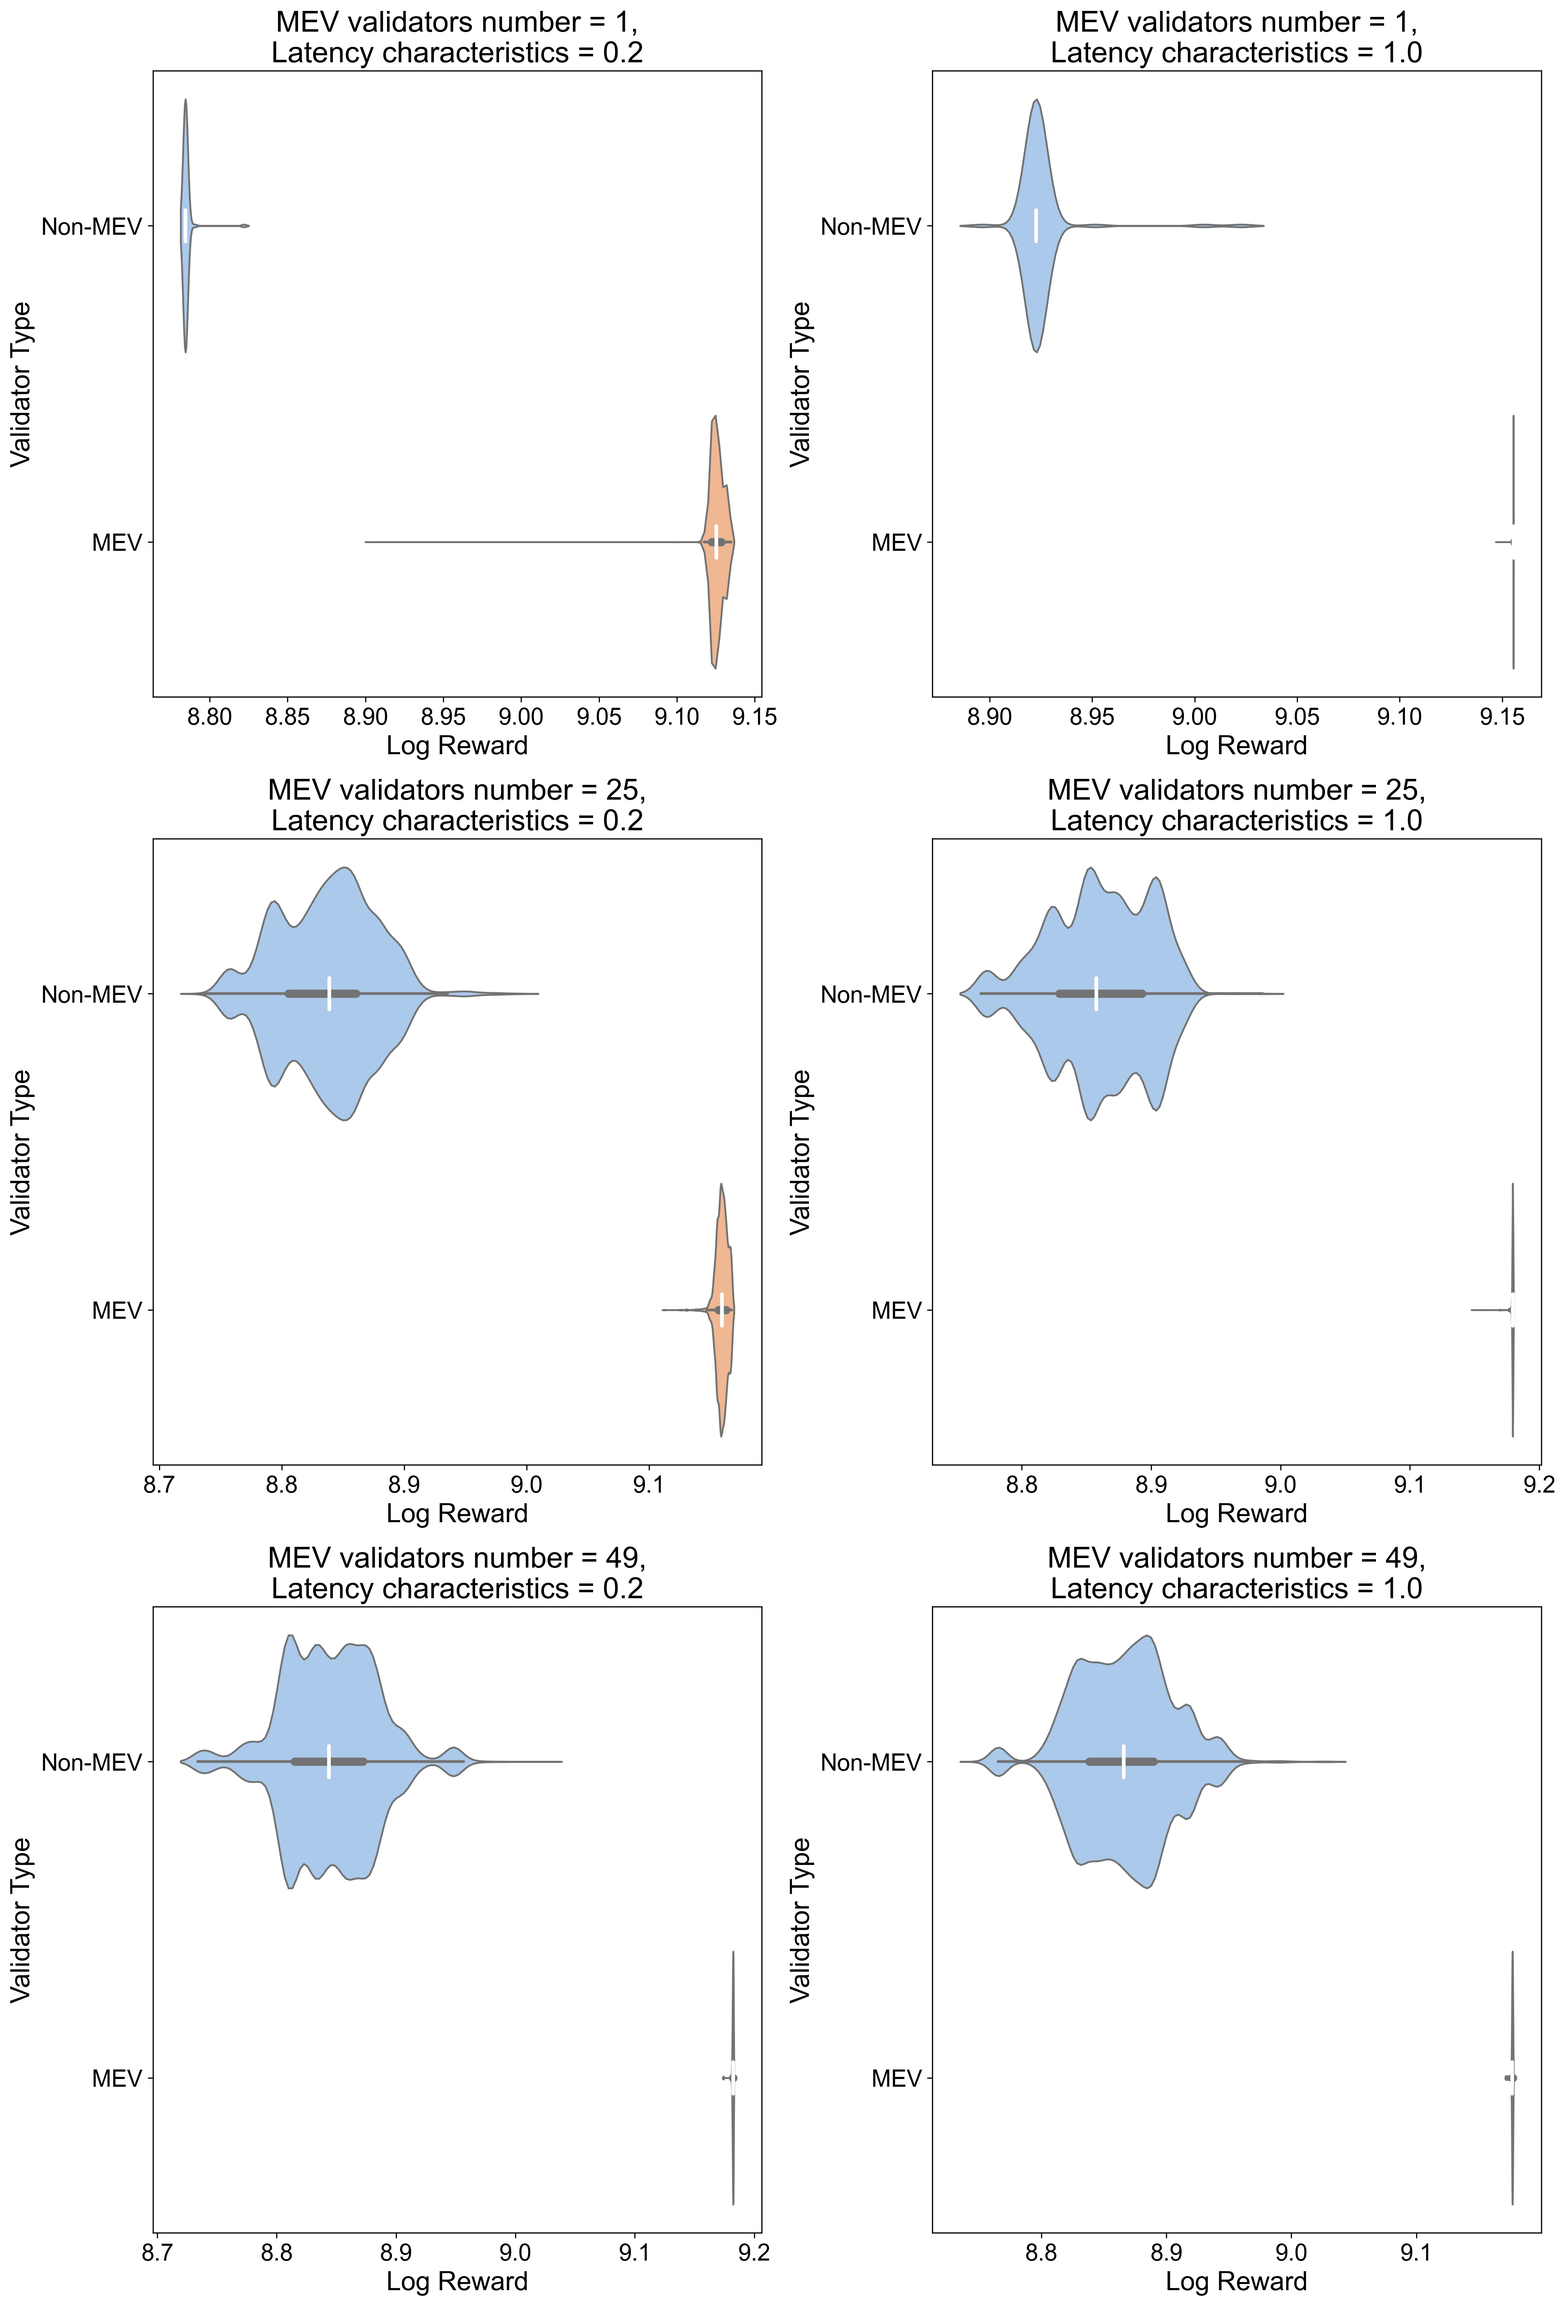
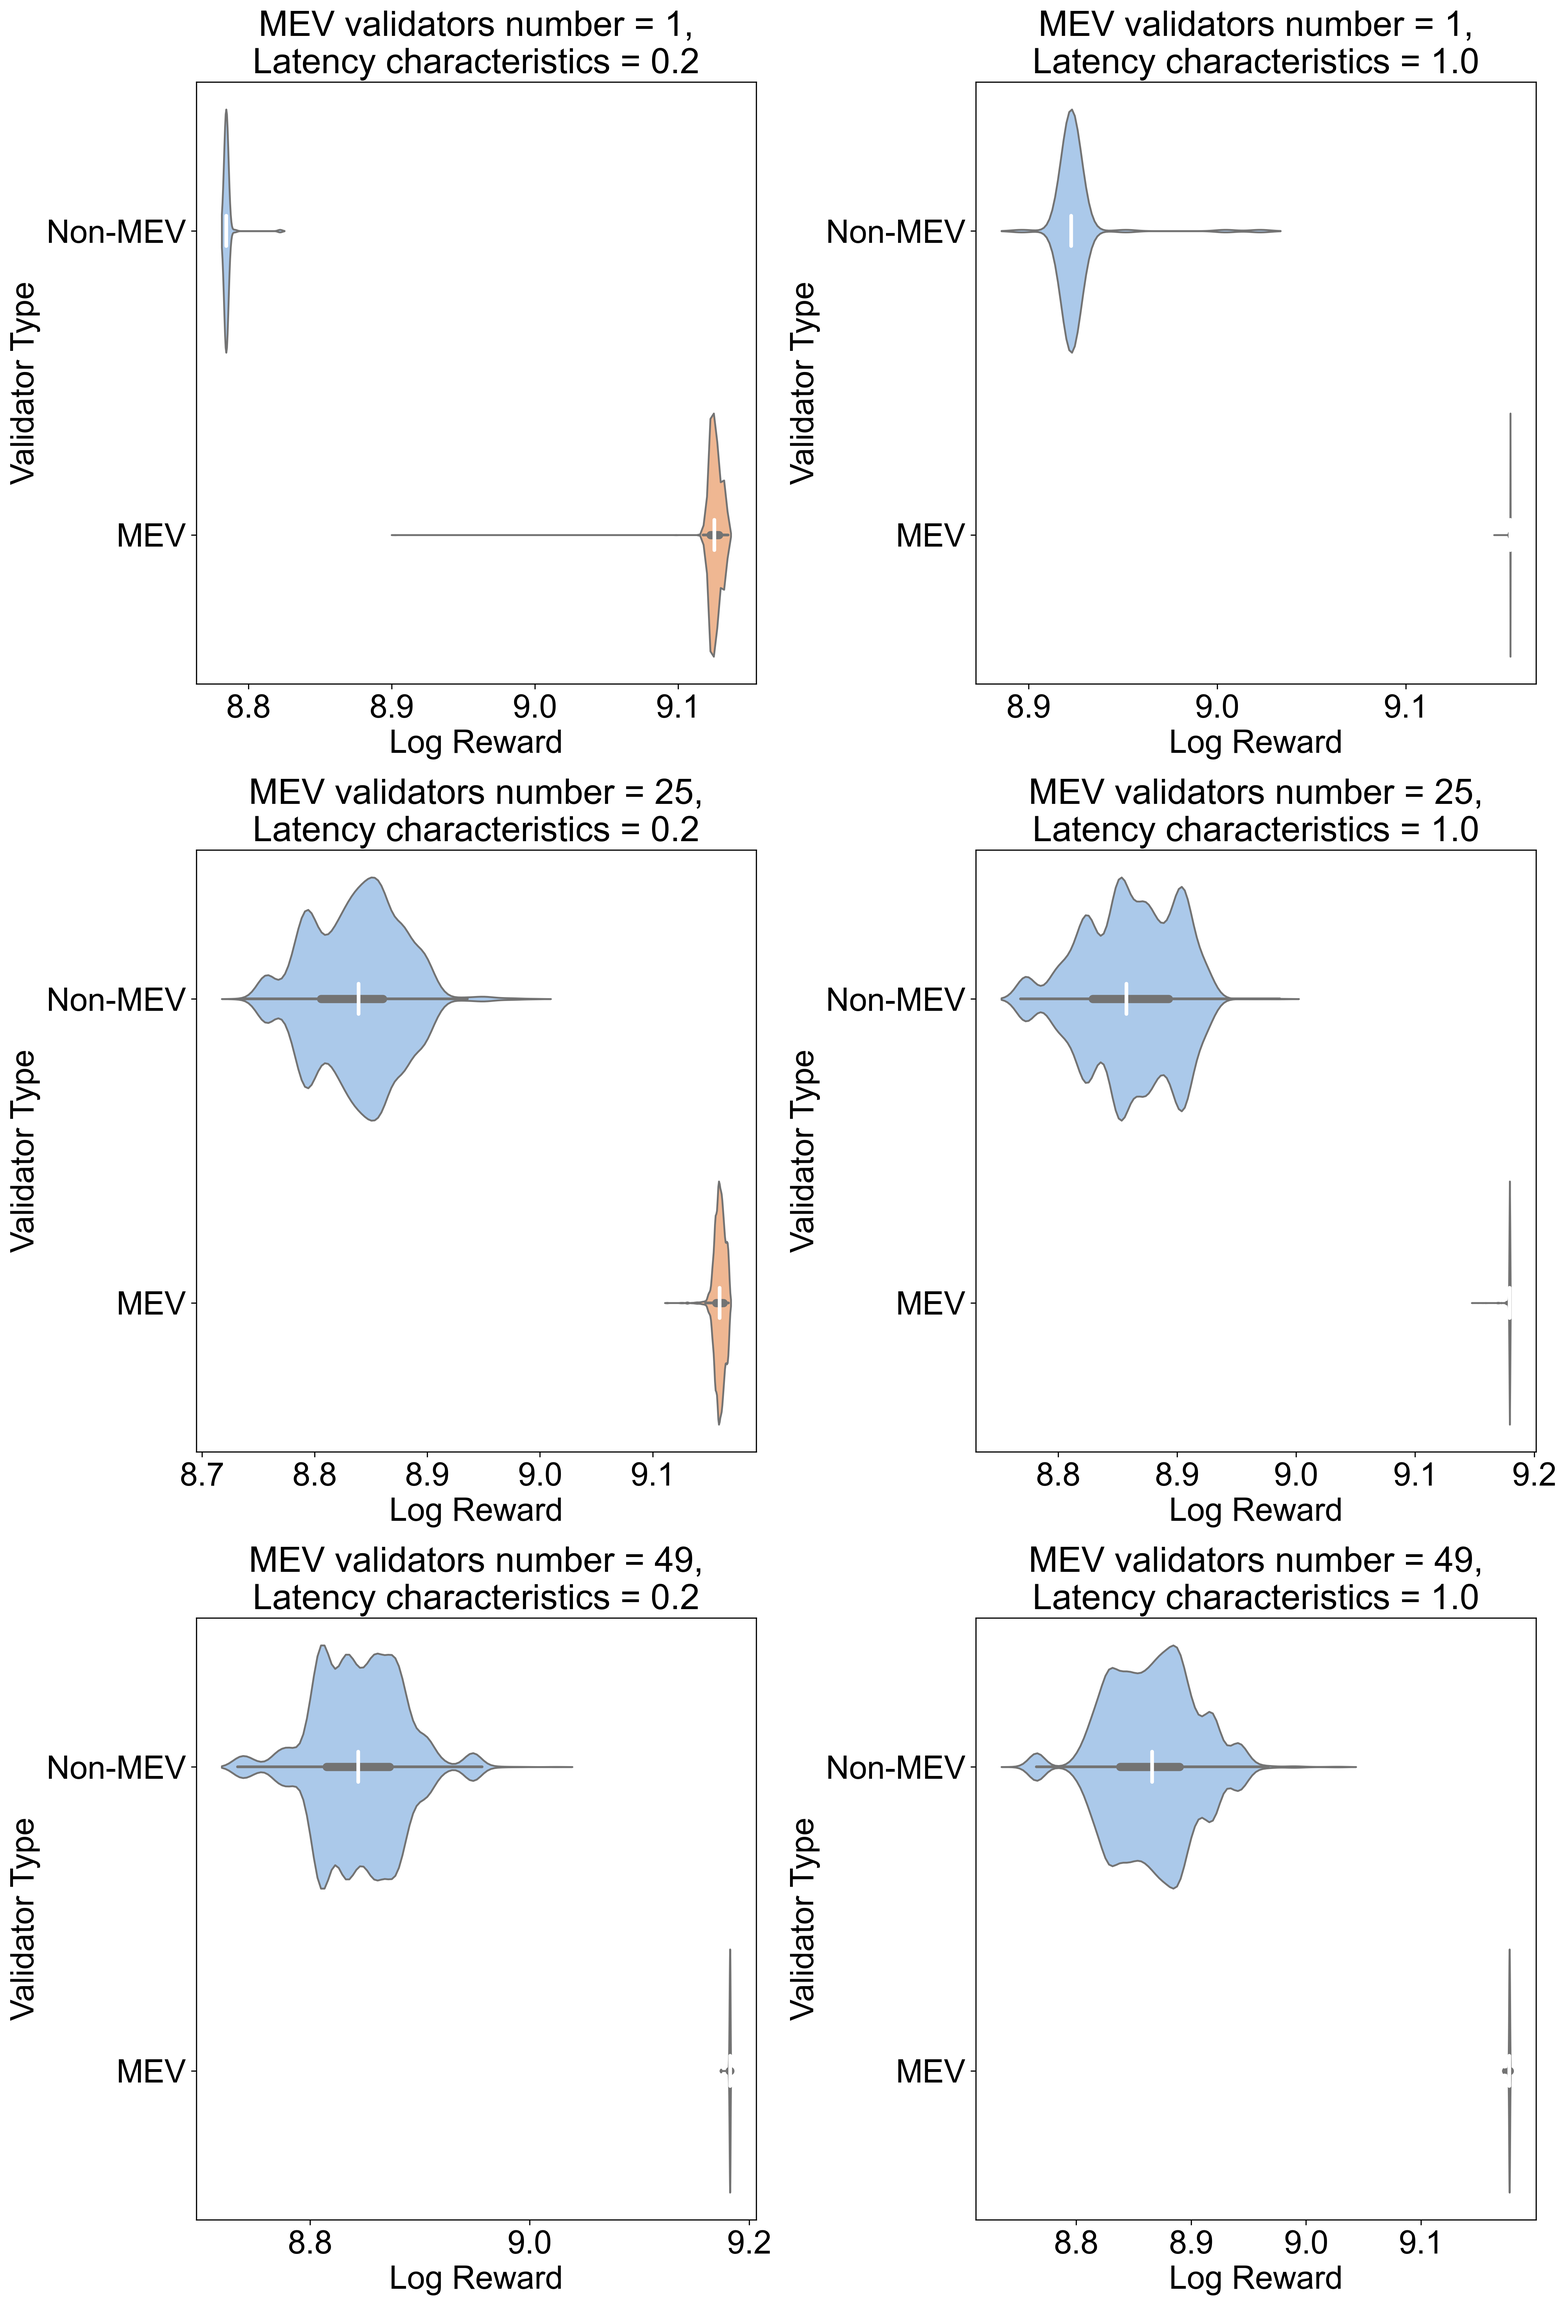
font

diff --git a/plots/box_plot_pos.py b/plots/box_plot_pos.py
@@ -38,10 +38,10 @@ def plot_reward_distribution(ax, data, mev_validators, characteristic):
         ax.plot([median, median], [i - 0.05, i + 0.05], color='white', linewidth=2.5)
     
     title = f'MEV validators number = {mev_validators},\nLatency characteristics = {characteristic}'
-    ax.set_title(title, fontsize=20)
-    ax.set_ylabel('Validator Type', fontsize=18)
-    ax.set_xlabel('Log Reward', fontsize=18)
-    ax.tick_params(axis='both', which='major', labelsize=16)
+    ax.set_title(title, fontsize=24)
+    ax.set_ylabel('Validator Type', fontsize=22)
+    ax.set_xlabel('Log Reward', fontsize=22)
+    ax.tick_params(axis='both', which='major', labelsize=22)
 
 if __name__ == '__main__':
     csv_path = "/Users/Tammy/Downloads/pos_vary_mev_and_characteristic"

diff --git a/plots/box_plot_pbs.py b/plots/box_plot_pbs.py
@@ -38,10 +38,10 @@ def plot_reward_distribution(ax, data, mev_builders, characteristic):
         ax.plot([median, median], [i - 0.05, i + 0.05], color='white', linewidth=2.5)
     
     title = f'MEV builders number = {mev_builders},\nLatency characteristics = {characteristic}'
-    ax.set_title(title, fontsize=20)
-    ax.set_ylabel('Builder Type', fontsize=18)
-    ax.set_xlabel('Log Reward', fontsize=18)
-    ax.tick_params(axis='both', which='major', labelsize=16)
+    ax.set_title(title, fontsize=24)
+    ax.set_ylabel('Builder Type', fontsize=22)
+    ax.set_xlabel('Log Reward', fontsize=22)
+    ax.tick_params(axis='both', which='major', labelsize=22)
 
 if __name__ == '__main__':
     csv_path = "/Users/tammy/Downloads/vary_mev_and_characteristic"
